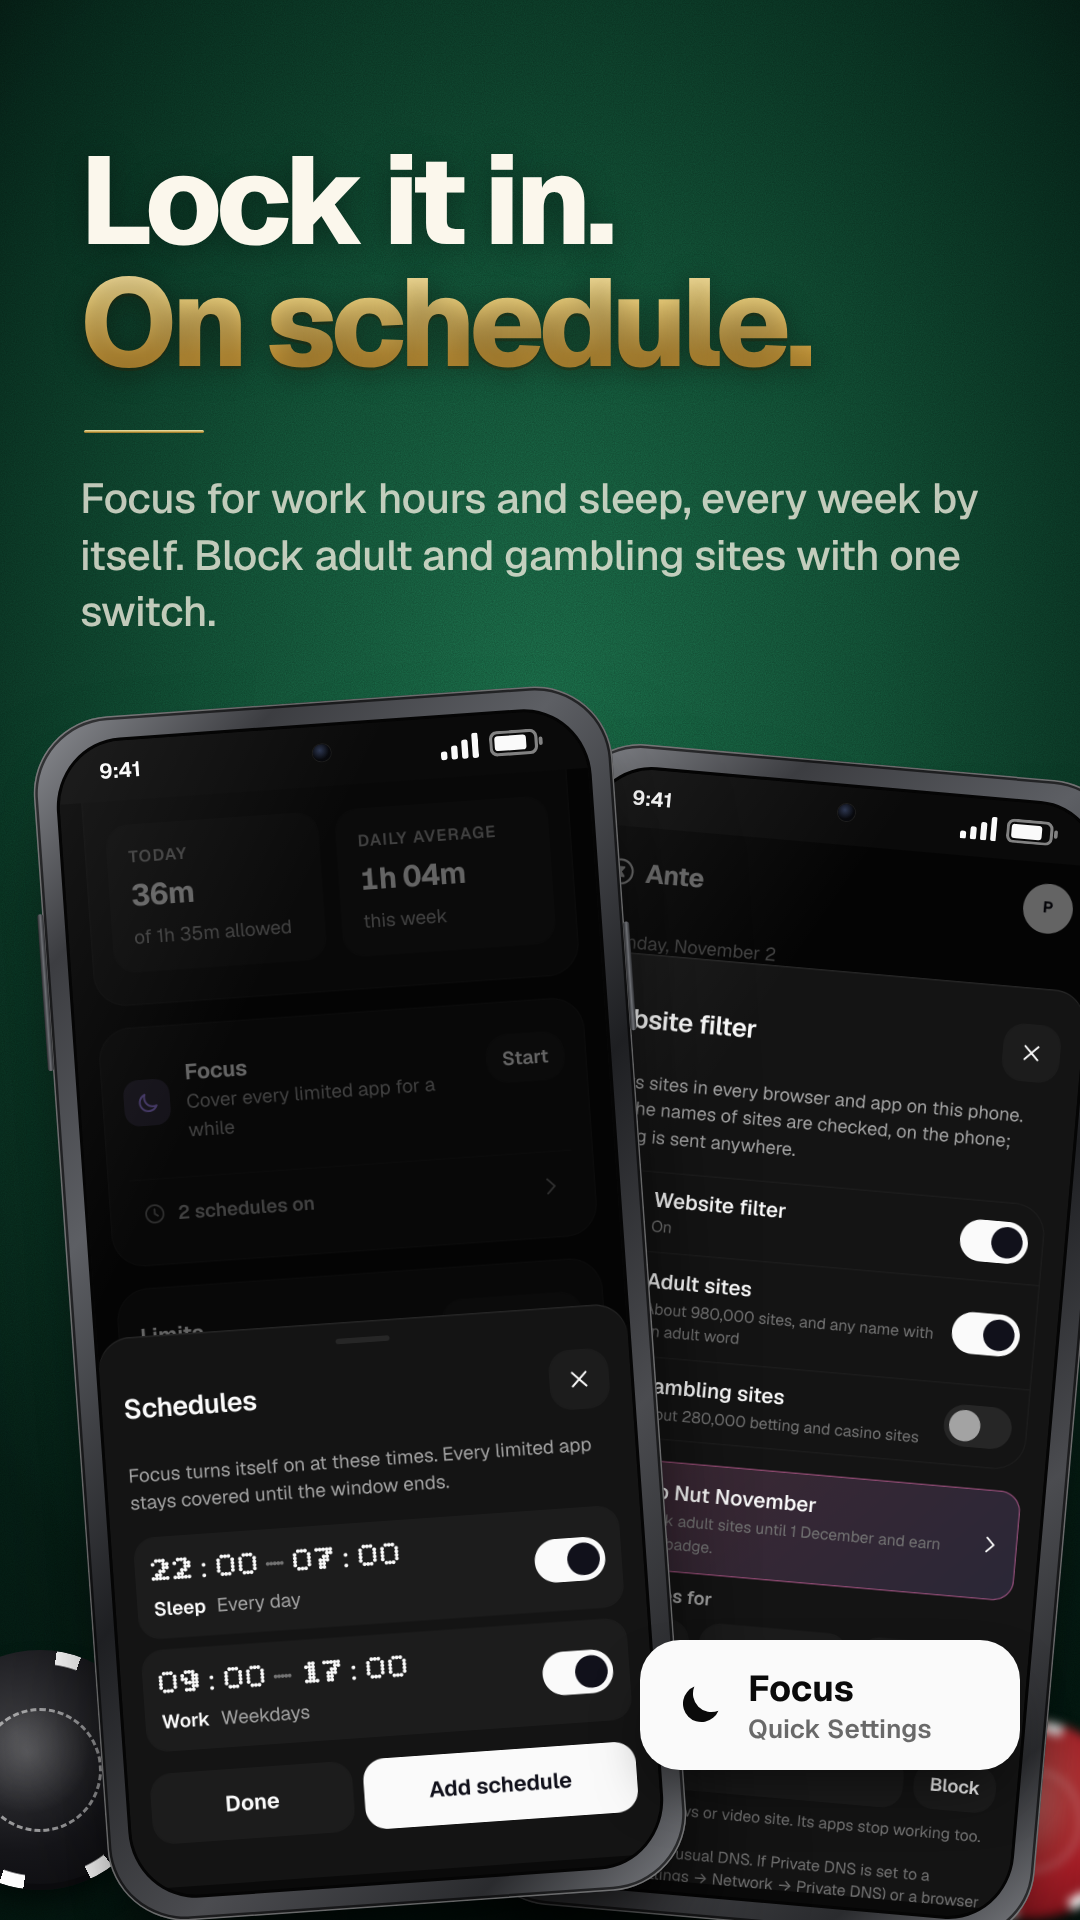
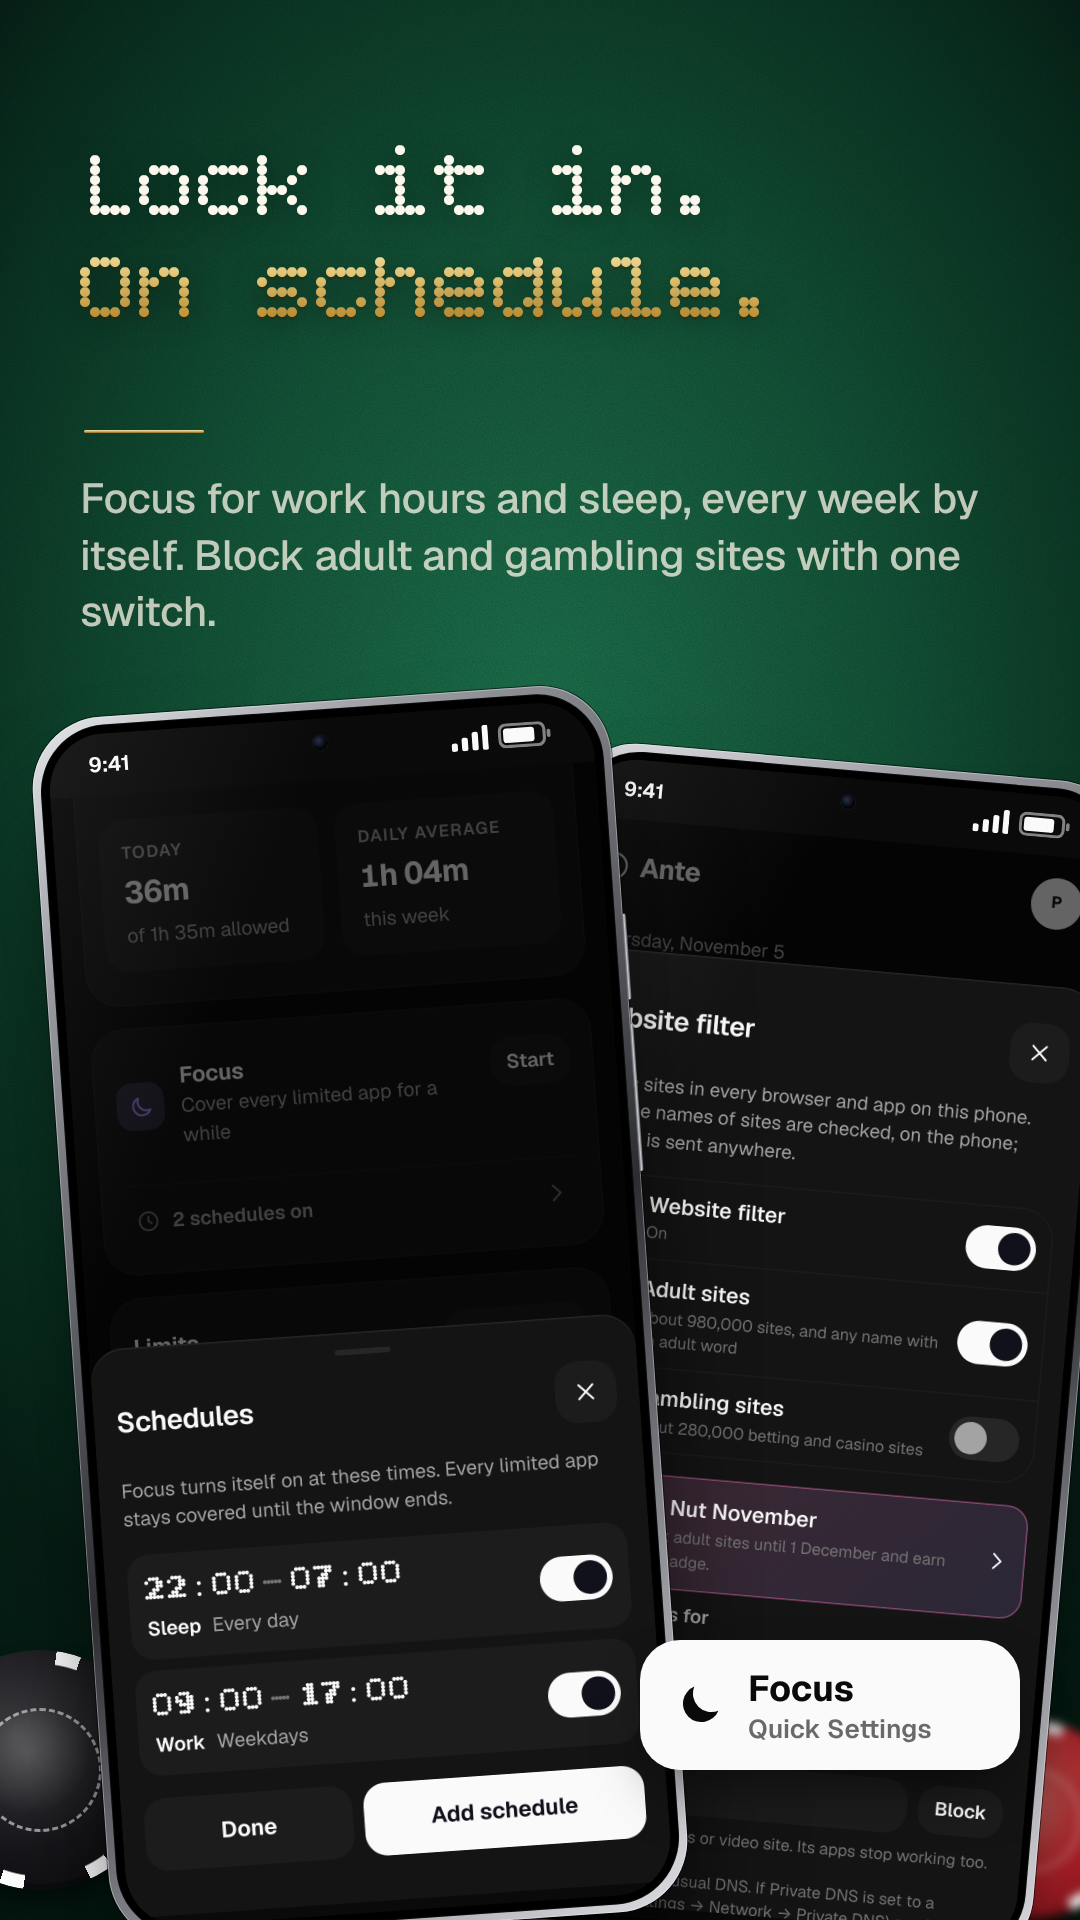
feat: Play Store images with a slim modern phone and Bitcount Single headlines
Thin even black bezel and a slim polished rim instead of the heavy titanium band; headlines in
the app's own Bitcount Single (round dots) with the gold accent word; fresh screenshots.

Claude-Session: https://claude.ai/code/session_01AKm8sK4KsnpZhCSW1Thtpz

diff --git a/scripts/store-play.js b/scripts/store-play.js
@@ -70,7 +70,7 @@ const LOGO = `<svg viewBox="0 0 24 24" fill="none"><circle cx="12" cy="12" r="10
 
 const page = (w, h, body) => `<!doctype html><html><head><meta charset="utf-8"><style>
 @font-face{font-family:Geist;font-weight:400 800;src:url(${FONT("Geist-latin.woff2")}) format('woff2')}
-@font-face{font-family:Bitcount;font-weight:100 900;src:url(${FONT("BitcountGridDouble-latin.woff2")}) format('woff2')}
+@font-face{font-family:Bitcount;font-weight:100 900;src:url(${FONT("BitcountSingle-latin.woff2")}) format('woff2')}
 *{box-sizing:border-box;margin:0}
 html,body{width:${w}px;height:${h}px;overflow:hidden}
 body{position:relative;font-family:Geist,sans-serif;color:#f4efe2;
@@ -81,7 +81,8 @@ body::after{content:"";position:absolute;inset:0;background:radial-gradient(120%
 .z{position:absolute;z-index:2}
 .brand{display:flex;align-items:center;gap:16px;font-weight:750;font-size:44px;letter-spacing:-.02em;color:#f4efe2}
 .brand svg{width:50px;height:50px;color:#e9c46a}
-.h{font-weight:780;letter-spacing:-.045em;line-height:.98;color:#fbf7ec;text-shadow:0 4px 30px rgba(0,0,0,.35)}
+/* Headlines in the app's own clock font, Bitcount Single, round dots */
+.h{font-family:Bitcount,monospace;font-weight:520;font-variation-settings:"ELSH" 0;letter-spacing:-.01em;line-height:1.02;color:#fbf7ec;text-shadow:0 4px 30px rgba(0,0,0,.35)}
 .h em{font-style:normal;background:${GOLD};-webkit-background-clip:text;background-clip:text;color:transparent;filter:drop-shadow(0 3px 0 rgba(60,35,0,.35))}
 .s{color:rgba(244,239,226,.78);font-weight:500;line-height:1.35;letter-spacing:-.01em}
 /* A gold rule like a table's inlay line */
@@ -90,19 +91,21 @@ body::after{content:"";position:absolute;inset:0;background:radial-gradient(120%
   font-weight:620;font-size:30px;white-space:nowrap;color:#f4efe2;backdrop-filter:blur(6px)}
 .pill i{width:12px;height:12px;border-radius:50%;background:${GOLD}}
 
-/* The phone: titanium band, black glass, punch-hole camera, side keys */
-.dev{position:absolute;aspect-ratio:${SCREEN_W + 30}/${SCREEN_H + STATUS + 30};border-radius:13.5%/6.4%;padding:2.3%;
-  background:linear-gradient(135deg,#8d8f94 0%,#3c3d41 14%,#5d5f64 30%,#1e1f22 52%,#4b4c50 72%,#2a2b2e 88%,#7d7f84 100%);
-  box-shadow:inset 0 0 0 1.5px rgba(255,255,255,.35), inset 0 0 0 4px rgba(0,0,0,.6), 0 90px 140px -40px rgba(0,0,0,.75), 0 40px 60px -30px rgba(0,0,0,.6);z-index:3}
-.dev::before,.dev::after{content:"";position:absolute;width:1.1%;border-radius:3px;background:linear-gradient(90deg,#2a2b2e,#6d6f74,#2a2b2e)}
-.dev::before{right:-0.9%;top:20%;height:9%}
-.dev::after{left:-0.9%;top:16%;height:13%;box-shadow:0 calc(100% + 40px) 0 0 #3a3b3e}
-.glass{position:relative;width:100%;height:100%;border-radius:12.2%/5.8%;overflow:hidden;background:#0a0a0a;box-shadow:0 0 0 3px #050505}
-.glass .sb{height:${(STATUS / (SCREEN_H + STATUS)) * 100}%;display:flex;align-items:center;justify-content:space-between;padding:0 8%;font-weight:650;color:#fafafa;background:#0a0a0a}
-.glass .sb svg{height:42%}
-.glass .cam{position:absolute;left:50%;top:1.55%;width:3.3%;aspect-ratio:1;transform:translateX(-50%);border-radius:50%;background:radial-gradient(circle at 40% 35%,#2b3550,#05060a 60%);box-shadow:0 0 0 1px #1a1a1a}
-.glass img{display:block;width:100%}
-.glass::after{content:"";position:absolute;inset:0;background:linear-gradient(120deg,rgba(255,255,255,.08),transparent 28%);pointer-events:none}
+/* The phone: a current flagship with a slim polished rim, a thin even black bezel and a
+   punch-hole camera (Android, not an iPhone: Play doesn't allow other platforms' devices). */
+.dev{position:absolute;aspect-ratio:${SCREEN_W + 16}/${SCREEN_H + STATUS + 16};border-radius:12.4%/5.9%;padding:.7%;z-index:3;
+  background:linear-gradient(145deg,#e6e7ea 0%,#9a9ca2 16%,#55575c 40%,#2c2d31 55%,#8f9197 78%,#dcdde1 100%);
+  box-shadow:0 0 0 1px rgba(0,0,0,.55), inset 0 0 0 1px rgba(255,255,255,.35), 0 90px 140px -40px rgba(0,0,0,.75), 0 40px 60px -30px rgba(0,0,0,.55)}
+.dev::before,.dev::after{content:"";position:absolute;width:.55%;border-radius:2px;background:linear-gradient(90deg,#4a4c50,#c9cacf,#4a4c50)}
+.dev::before{right:-.45%;top:19%;height:7%}
+.dev::after{right:-.45%;top:28%;height:12%}
+.glass{position:relative;width:100%;height:100%;border-radius:11.8%/5.6%;background:#000;padding:1.6%;box-shadow:inset 0 0 0 1px rgba(255,255,255,.05)}
+.scr{position:relative;width:100%;height:100%;border-radius:10.2%/4.8%;overflow:hidden;background:#0a0a0a}
+.scr .sb{height:${(STATUS / (SCREEN_H + STATUS)) * 100}%;display:flex;align-items:center;justify-content:space-between;padding:0 7.5%;font-weight:650;color:#fafafa;background:#0a0a0a}
+.scr .sb svg{height:40%}
+.scr .cam{position:absolute;left:50%;top:1.45%;width:2.7%;aspect-ratio:1;transform:translateX(-50%);border-radius:50%;background:radial-gradient(circle at 40% 35%,#26304a,#030407 62%);box-shadow:0 0 0 1px #151515}
+.scr img{display:block;width:100%}
+.scr::after{content:"";position:absolute;inset:0;background:linear-gradient(115deg,rgba(255,255,255,.07),transparent 26%);pointer-events:none}
 
 /* Props: clay chips and cards, a few, mostly off the edges */
 .chip{position:absolute;border-radius:50%;z-index:1;box-shadow:0 18px 30px -8px rgba(0,0,0,.6), inset 0 -6px 0 rgba(0,0,0,.25)}
@@ -127,7 +130,7 @@ const STATUSBAR = `<div class="sb" style="font-size:var(--sbf)"><span>9:41</span
   <svg viewBox="0 0 26 12" fill="none"><rect x=".75" y=".75" width="21.5" height="10.5" rx="3" stroke="#fafafa" stroke-opacity=".5" stroke-width="1.5"/><rect x="2.5" y="2.5" width="15" height="7" rx="1.6" fill="#fafafa"/><rect x="23.5" y="4" width="1.8" height="4" rx=".9" fill="#fafafa" fill-opacity=".5"/></svg></span></div>`;
 /** A phone at (x, y), [w] wide, showing [src]. */
 const phone = (src, x, y, w, rot = 0, z = 3) => `<div class="dev" style="left:${x}px;top:${y}px;width:${w}px;transform:rotate(${rot}deg);z-index:${z};--sbf:${(w * 0.036).toFixed(1)}px">
-  <div class="glass">${STATUSBAR}<img src="${src}"><span class="cam"></span></div></div>`;
+  <div class="glass"><div class="scr">${STATUSBAR}<img src="${src}"><span class="cam"></span></div></div></div>`;
 const chip = (x, y, d, color, extra = "") => `<div class="chip ${extra}" style="left:${x}px;top:${y}px;width:${d}px;height:${d}px;background:radial-gradient(circle at 40% 35%, color-mix(in oklab, ${color} 80%, white), ${color} 55%, color-mix(in oklab, ${color} 70%, black))"></div>`;
 const card = (x, y, rank, suit, red, rot, extra = "") => `<div class="card ${red ? "red" : "blk"} ${extra}" style="left:${x}px;top:${y}px;transform:rotate(${rot}deg)">${rank}<br>${suit}<b>${suit}</b><span class="rv">${rank}<br>${suit}</span></div>`;
 
@@ -146,12 +149,12 @@ async function store(b, S) {
   // 1 + 2: one 2160 px panorama, the block-screen phone straddling the seam.
   const pano = page(W * 2, H, `
     <div class="z brand" style="left:90px;top:100px">${LOGO}Ante</div>
-    <p class="z h" style="left:90px;top:220px;font-size:136px;width:900px">Your feed never <em>ends.</em></p>
+    <p class="z h" style="left:90px;top:220px;font-size:112px;width:920px">Your feed never <em>ends.</em></p>
     <div class="z rule" style="left:94px;top:520px;width:120px"></div>
     <p class="z s" style="left:90px;top:560px;font-size:44px;width:820px">Give every app a daily budget of minutes.</p>
     ${phone(S.home, 150, 740, 640, -4)}
     ${phone(S.block, 860, 640, 640, 5, 4)}
-    <p class="z h" style="left:1220px;top:220px;font-size:136px;width:860px;text-align:right">Your day <em>does.</em></p>
+    <p class="z h" style="left:1220px;top:220px;font-size:112px;width:880px;text-align:right">Your day <em>does.</em></p>
     <div class="z rule" style="right:94px;top:520px;width:120px"></div>
     <p class="z s" style="left:1220px;top:560px;font-size:44px;width:850px;text-align:right">When the time is up, Ante covers the app.</p>
     <div class="z widget" style="right:110px;top:800px;width:440px;height:260px"><span class="dot" style="font-size:150px">1:09</span><small>left today</small></div>
@@ -173,7 +176,7 @@ async function store(b, S) {
 
   // 3: the tables
   await render(b, page(W, H, `
-    <p class="z h" style="left:80px;top:140px;font-size:124px;width:930px">Want more time? <em>Bet it.</em></p>
+    <p class="z h" style="left:80px;top:140px;font-size:100px;width:940px">Want more time? <em>Bet it.</em></p>
     <div class="z rule" style="left:84px;top:430px;width:120px"></div>
     <p class="z s" style="left:80px;top:470px;font-size:42px;width:900px">Ten tables: roulette, blackjack, plinko and more. The house keeps a small edge, so the more you play, the less you scroll.</p>
     ${phone(S.blackjack, 560, 860, 520, 8, 2)}
@@ -184,7 +187,7 @@ async function store(b, S) {
 
   // 4: Focus, schedules and the website filter
   await render(b, page(W, H, `
-    <p class="z h" style="left:80px;top:140px;font-size:124px;width:930px">Lock it in.<br><em>On schedule.</em></p>
+    <p class="z h" style="left:80px;top:140px;font-size:100px;width:940px">Lock it in.<br><em>On schedule.</em></p>
     <div class="z rule" style="left:84px;top:430px;width:120px"></div>
     <p class="z s" style="left:80px;top:470px;font-size:42px;width:900px">Focus for work hours and sleep, every week by itself. Block adult and gambling sites with one switch.</p>
     ${phone(S.web, 520, 760, 560, 5, 2)}
@@ -195,7 +198,7 @@ async function store(b, S) {
 
   // 5: hours back and the badges
   await render(b, page(W, H, `
-    <p class="z h" style="left:80px;top:140px;font-size:124px;width:930px">See the hours you <em>got back.</em></p>
+    <p class="z h" style="left:80px;top:140px;font-size:100px;width:940px">See the hours you <em>got back.</em></p>
     <div class="z rule" style="left:84px;top:430px;width:120px"></div>
     <p class="z s" style="left:80px;top:470px;font-size:42px;width:900px">A weekly card made for a screenshot, and 56 badges to earn on the way. Free, no ads, nothing leaves your phone.</p>
     ${phone(S.profile, 540, 800, 520, 7, 2)}
